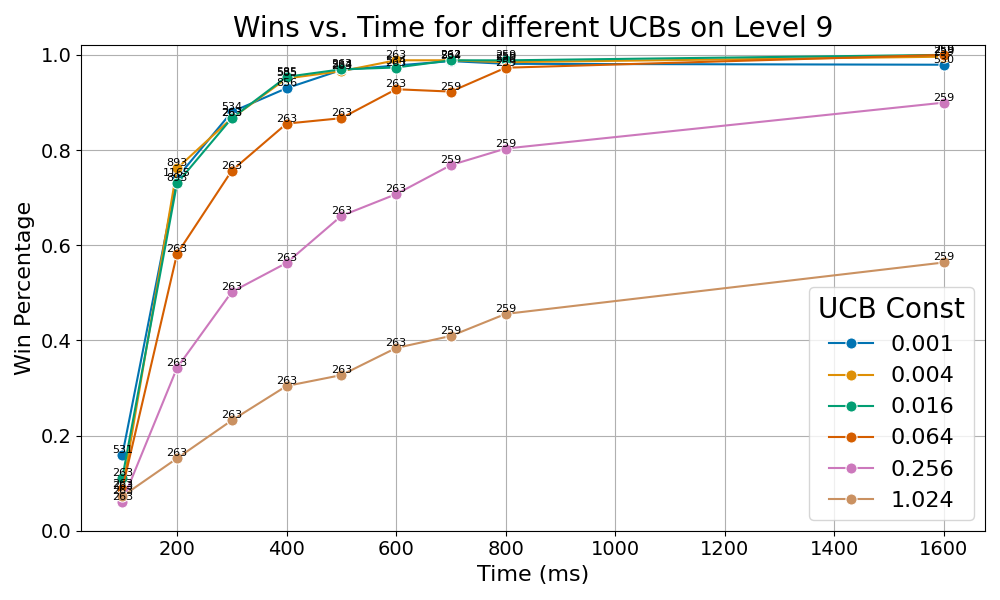
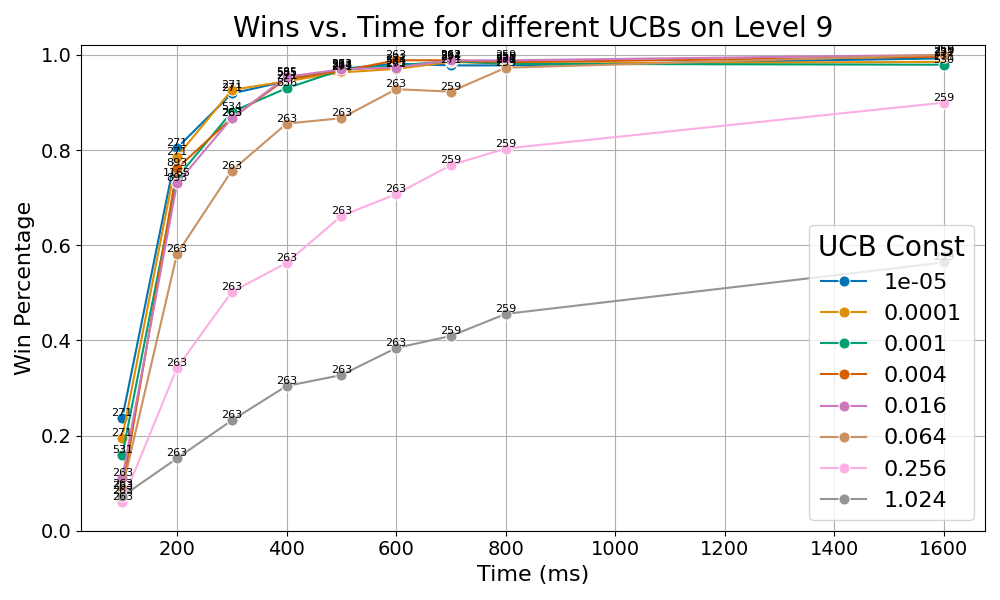
Graphs fixes and changes

diff --git a/game_ai/create_graphs.py b/game_ai/create_graphs.py
@@ -172,7 +172,9 @@ plot_pvz_data(
 
 
 # 5.5.2.1
-data_5_5_2_1 = filter_pvz_data(basic_data, level=["9"], ucb_filter=[0.001, 0.004, 0.016, 0.064, 0.256, 1.024])
+data_5_5_2_1 = filter_pvz_data(
+    basic_data, level=["9"], ucb_filter=[0.00001, 0.0001, 0.001, 0.004, 0.016, 0.064, 0.256, 1.024]
+)
 
 plot_pvz_data(
     data_5_5_2_1,
@@ -185,7 +187,9 @@ plot_pvz_data(
 
 
 # 5.5.2.2
-data_5_5_2_2 = filter_pvz_data(basic_data, level=["9+"], ucb_filter=[0.001, 0.004, 0.016, 0.064, 0.256, 1.024])
+data_5_5_2_2 = filter_pvz_data(
+    basic_data, level=["9+"], ucb_filter=[0.00001, 0.0001, 0.001, 0.004, 0.016, 0.064, 0.256, 1.024]
+)
 
 plot_pvz_data(
     data_5_5_2_2,
@@ -218,7 +222,18 @@ data_5_5_2_2_extra2 = filter_pvz_data(
 )
 data_5_5_2_2_extra2["name_in_legend"] = "Parallel Trees Agent on Level 9++ with 300ms Limit"
 
-data_5_5_2_2_extra = pd.concat([data_5_5_2_2_extra1, data_5_5_2_2_extra2], ignore_index=True)
+data_5_5_2_2_extra3 = filter_pvz_data(
+    all_data.copy(),
+    heuristic_modes_filter=[mcts.NO_HEURISTIC],
+    selection_modes_filter=[mcts.FULL_EXPAND],
+    loss_heuristics_filter=[mcts.NO_HEURISTIC],
+    expansion_modes_filter=[mcts.NORMAL_MCTS],
+    level=["9+"],
+    time_ms_filter={"min": 1600, "max": 1600},
+)
+data_5_5_2_2_extra3["name_in_legend"] = "Basic Agent on Level 9+ with 1600ms Limit"
+
+data_5_5_2_2_extra = pd.concat([data_5_5_2_2_extra1, data_5_5_2_2_extra2, data_5_5_2_2_extra3], ignore_index=True)
 ucbs_x = [0.001, 0.004, 0.016, 0.032]
 ucbs_xi = list(range(len(ucbs_x)))
 
@@ -227,11 +242,11 @@ plot_pvz_data(
     title="UCB Comparison For Different Parameters",
     file_name="5.5.2.2_different_ucbs_general_params",
     group_graphs_by="name_in_legend",
-    legend_location="upper right",
-    legend_size="medium",
+    legend_location="upper left",
+    legend_size="small",
     sort_legend=False,
     x_axis="ucb_const",
-    ylim=(0, 1.2),
+    ylim=(0, 1.5),
     log_scale=True,
 )
 

diff --git a/game_ai/plot_utils.py b/game_ai/plot_utils.py
@@ -232,7 +232,7 @@ def plot_pvz_data(
     # Save the plot
     plt.tight_layout()
     plt.savefig(f"graphs/{file_name if file_name else title}.png")
-    plt.show()
+    # plt.show()
 
 
 def filter_and_plot_pvz_data(
@@ -257,7 +257,7 @@ def filter_and_plot_pvz_data(
     # Legend tuning...
     hue_order: List[Union[int, str]] = None,
     legend_location: str = "upper left",
-    legend_size: str = "medium"
+    legend_size: str = "medium",
     # hue_norm=None,
 ):
     # Read CSV file into a DataFrame
